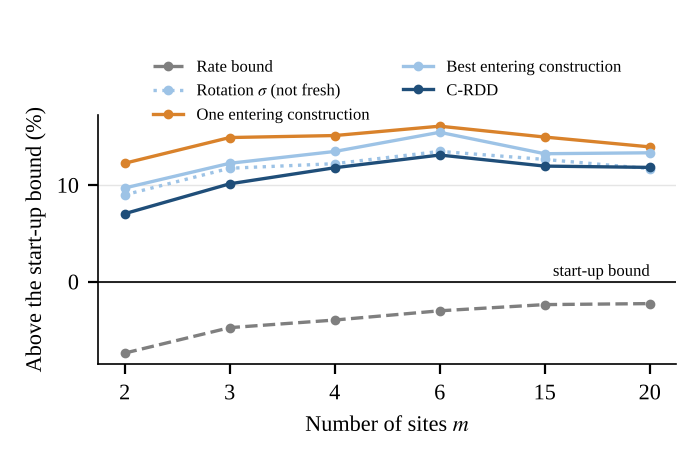
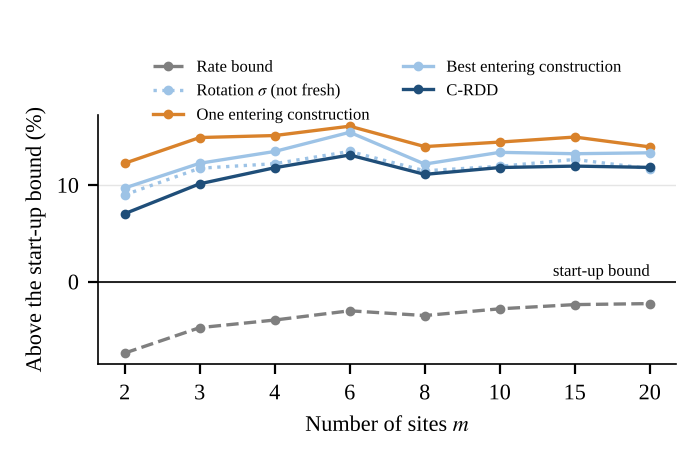
实验一节按 5d242ddd 的结果更新：本方法与消融全部 m；长期可行评价消融改用 rescue_long/long_feasible（65% 的最终解长期缺岗）；_e 按 e_fixed 取用；DD-EA m=15、20 等 q6 前按 pending
Claude-Session: https://claude.ai/code/session_012ddzzcDFFW9ewPyeeuBDkt

diff --git a/code/t20_paper_tables.py b/code/t20_paper_tables.py
@@ -41,9 +41,13 @@ for f in glob.glob(R('results/T20/opp/rhmip/*.json')):
 for d in ('opp_e', 'ours_e'):
     for f in glob.glob(R('results/T20', d, 'jobs', '*.json')):
         meth, inst, key = os.path.basename(f)[:-5].split('__'); rec = json.load(open(f))
-        if rec.get('e_triggered', 1): put(meth, inst, key, rec)
+        if rec.get('e_fixed', -1) >= 0: put(meth, inst, key, rec)   # (e) 实际触发才用新结果（11-09 审核）
+
+# q6 会用 (e) 重跑这些 (方法, m) 的一部分作业，跑完前按 pending 处理（q6 结束后删掉对应项）
+HOLD = {('d5', 15), ('d5', 20)}
 
 def complete(meth, m):
+    if (meth, m) in HOLD: return False
     ins = [i for i in lb if mof(i) == m]
     return all(len(runs[meth].get(i, {})) >= RUNS[meth] for i in ins)
 
@@ -151,10 +155,15 @@ for meth in ['ours_w0.25', 'ours', 'ours_w1', 'ours_w2']:
     rows.append(f'{NAME[meth]} & {g:.1f} & {w}/{len(ins)-w-l}/{l} \\\\')
 open(R('manuscript/tables/tab_window.tex'), 'w').write('\n'.join(rows) + '\n')
 
-# ---------- 长期可行评价消融：有限时域判可行、长期复核缺岗的比例 ----------
+# ---------- 长期可行评价消融：只看 720 h 选出的解，长期复核缺岗的比例与补救量 ----------
 se = [json.load(open(f)) for f in glob.glob(R('results/T20/ours/jobs/shorteval__*.json'))]
-n_add = sum(1 for r in se if r.get('rescue_add', 0) > 0)
-open(R('manuscript/tables/stat_shorteval.tex'), 'w').write(f'% shorteval 作业 {len(se)} 个，补救加过资源的 {n_add} 个\n\\newcommand{{\\SEn}}{{{len(se)}}}\\newcommand{{\\SEadd}}{{{n_add}}}\n')
+short = [r for r in se if r.get('long_feasible') == 0]
+add = [r['rescue_long'].get('rescue_add', 0) for r in short if r.get('rescue_long')]
+nfail = sum(r.get('status') not in ('cert', 'uncert') for r in se)
+open(R('manuscript/tables/stat_shorteval.tex'), 'w').write(
+    f'% shorteval 作业 {len(se)} 个；只看 720 h 选出的最终解长期复核缺岗 {len(short)} 个；补救加 {min(add) if add else 0}–{max(add) if add else 0} 个；补救后仍不可行 {nfail} 个\n'
+    f'\\newcommand{{\\SEn}}{{{len(se)}}}\\newcommand{{\\SEshort}}{{{len(short)}}}\\newcommand{{\\SEpct}}{{{round(100*len(short)/max(1,len(se)))}}}'
+    f'\\newcommand{{\\SEaddmin}}{{{min(add) if add else 0}}}\\newcommand{{\\SEaddmax}}{{{max(add) if add else 0}}}\\newcommand{{\\SEfail}}{{{nfail}}}\n')
 
 # ---------- 图：启动下界随 H 收敛 ----------
 import matplotlib; matplotlib.use('Agg'); import matplotlib.pyplot as plt
@@ -202,5 +211,6 @@ if ms_ok:
     [ax.spines[s].set_visible(False) for s in ('top', 'right')]
     ax.legend(fontsize=6, frameon=False, ncol=2, loc='upper center', bbox_to_anchor=(0.5, 1.28), handlelength=1.8)
     fig.tight_layout(); fig.savefig(R('manuscript/figures/fig_bracket.pdf')); fig.savefig(R('manuscript/figures/fig_bracket.png'), dpi=200)
+print('bracket series:', {k: [round(x, 1) for x in v] for k, v in series.items()})
 print('complete m (ours):', [m for m in MS if complete('ours', m)], '; Friedman instances:', nrank, '; bracket m:', ms_ok)
 print('holm', {o: holm[o] for o in OPP})

diff --git a/manuscript/sections/06_experiments.tex b/manuscript/sections/06_experiments.tex
@@ -128,7 +128,9 @@ ES is the strongest competitor; its gap is $2.5$--$3.6$ points larger.
 RDD with a hand-written rule is next, $3.3$--$7.0$ points behind, and its distance grows with $m$.
 The rules (PB, GPHH) and RH-MIP are $9.5$--$19$ points behind.
 DD-EA needs one gene per decision; its fleet search often runs out of time before the search starts, so it solves only $24\%$ of the runs at $m = 6$.
-% TODO：m = 8–20 跑完后补一段：大实例上的差距与求解率（目前已知 PB、GPHH、RH-MIP 在 m = 15、20 上常无解）。
+On the instances with $m \ge 8$, C-RDD solves every run, and its gap stays at $11$--$12\%$.
+PB, GPHH and RH-MIP are $13$--$21$ points behind on the instances they solve, and at $m = 15$ and $20$ they solve only $30$--$70\%$ of the runs.
+% TODO：q5、q6 跑完后补 ES、RK-EA、DD-EA、RDD 在 m ≥ 8 上的结果，并删掉 t20_paper_tables.py 里的 HOLD。
 Table~\ref{tab:solve} gives the solve rates. On the instances with $m \le 6$, C-RDD has the best Friedman rank (Table~\ref{tab:rank}).
 
 \begin{table*}[t]
@@ -181,15 +183,15 @@ Table~\ref{tab:solve} gives the solve rates. On the instances with $m \le 6$, C-
 \subsection{Ablation}
 \label{sec:exp:ablation}
 
+\input{tables/stat_shorteval}
+
 Table~\ref{tab:ablation} removes one part of C-RDD at a time.
 \begin{itemize}
   \item \emph{Without the relaxation rule}, the deviations act on a hand-written rule (RDD). The gap grows by $3.3$--$7.0$ points.
   \item \emph{Without the entering construction}, the rotation rule runs from the fresh start and the search must fix the start-up alone. The gap grows by $2.3$--$3.2$ points.
-  \item \emph{Without the search}, the best entering construction is returned. The gap grows by $1.3$--$2.7$ points. The construction alone is better than the search without the construction.
-  \item \emph{With a short fitness horizon} of $720$ hours, the search sees too little of the start-up and stops at larger fleets. The gap grows by $1.8$--$1.9$ points.
+  \item \emph{Without the search}, the best entering construction is returned. The gap grows by $1.1$--$2.7$ points. The construction alone is better than the search without the construction.
+  \item \emph{Without the long-run evaluation}, the fitness and the fleet search look only at the first $720$ hours, and the final schedule is checked afterwards. Of the \SEn{} final schedules, \SEshort{} (\SEpct\%) run short later. Adding \SEaddmin--\SEaddmax{} resources repairs all but \SEfail{} of them, and the repaired fleets are $1.1$--$1.9$ points larger than those of C-RDD.
 \end{itemize}
-% TODO：短适应度时域的最终解是否都长期可行（stat_shorteval：补救加资源 0/120）——请服务器确认这一组仍在搜索中做无限时域检查，再决定这一条怎么写。
-% TODO：m = 8、10 跑完后补"去掉接入构造""去掉搜索"两行。
 
 \begin{table}[t]
   \centering

diff --git a/manuscript/tables/tab_compare.tex b/manuscript/tables/tab_compare.tex
@@ -2,8 +2,8 @@
 3 & 10.1 & +10.0 (20/0/0) & +14.2 (20/0/0) & +2.6 (16/2/2) & +7.0 (19/1/0) & +38.2 (18/0/0) & +3.3 (18/2/0) & +9.5 (20/0/0) \\
 4 & 11.8 & +12.0 (20/0/0) & +18.9 (20/0/0) & +2.5 (16/1/3) & +7.6 (20/0/0) & +39.8 (12/0/0) & +4.7 (20/0/0) & +10.9 (20/0/0) \\
 6 & 13.1 & +13.6 (19/0/0) & +17.9 (20/0/0) & +3.0 (17/0/3) & +9.3 (20/0/0) & +43.1 (7/0/0) & +7.0 (20/0/0) & +13.5 (20/0/0) \\
-8 & \textit{pending} & \textit{pending} & \textit{pending} & \textit{pending} & \textit{pending} & \textit{pending} & \textit{pending} & \textit{pending} \\
-10 & \textit{pending} & \textit{pending} & \textit{pending} & \textit{pending} & \textit{pending} & \textit{pending} & \textit{pending} & \textit{pending} \\
+8 & 11.1 & +16.5 (18/0/0) & +19.5 (20/0/0) & \textit{pending} & \textit{pending} & \textit{pending} & \textit{pending} & +16.6 (20/0/0) \\
+10 & 11.8 & +13.1 (14/0/0) & +17.6 (19/0/0) & \textit{pending} & \textit{pending} & \textit{pending} & \textit{pending} & +17.2 (18/0/0) \\
 15 & 12.0 & +15.3 (6/0/0) & +19.4 (17/0/0) & \textit{pending} & \textit{pending} & \textit{pending} & \textit{pending} & +20.3 (13/0/0) \\
 20 & 11.8 & +16.8 (10/0/0) & +19.3 (18/0/0) & \textit{pending} & \textit{pending} & \textit{pending} & \textit{pending} & +21.2 (14/0/0) \\
 \midrule

diff --git a/manuscript/tables/tab_ablation.tex b/manuscript/tables/tab_ablation.tex
@@ -5,17 +5,19 @@ w/o relaxation rule & 6 & +7.0 (20/0/0) \\
 \midrule
 w/o entering & 4 & +2.3 (17/3/0) \\
 w/o entering & 6 & +3.2 (20/0/0) \\
-w/o entering & 8 & \textit{pending} \\
-w/o entering & 10 & \textit{pending} \\
+w/o entering & 8 & +2.8 (20/0/0) \\
+w/o entering & 10 & +2.6 (19/0/1) \\
 \midrule
 w/o search & 2 & +2.7 (13/7/0) \\
 w/o search & 3 & +2.1 (14/6/0) \\
 w/o search & 4 & +1.7 (13/7/0) \\
 w/o search & 6 & +2.4 (20/0/0) \\
-w/o search & 8 & \textit{pending} \\
-w/o search & 10 & \textit{pending} \\
+w/o search & 8 & +1.1 (15/5/0) \\
+w/o search & 10 & +1.6 (20/0/0) \\
 w/o search & 15 & +1.3 (19/1/0) \\
 w/o search & 20 & +1.5 (20/0/0) \\
 \midrule
 w/o long-run eval. & 4 & +1.8 (15/5/0) \\
 w/o long-run eval. & 6 & +1.9 (17/0/3) \\
+w/o long-run eval. & 8 & +1.1 (15/5/0) \\
+w/o long-run eval. & 10 & +1.7 (19/0/0) \\

diff --git a/manuscript/tables/stat_shorteval.tex b/manuscript/tables/stat_shorteval.tex
@@ -1,2 +1,2 @@
-% shorteval 作业 120 个，补救加过资源的 0 个
-\newcommand{\SEn}{120}\newcommand{\SEadd}{0}
+% shorteval 作业 240 个；只看 720 h 选出的最终解长期复核缺岗 157 个；补救加 1–10 个；补救后仍不可行 8 个
+\newcommand{\SEn}{240}\newcommand{\SEshort}{157}\newcommand{\SEpct}{65}\newcommand{\SEaddmin}{1}\newcommand{\SEaddmax}{10}\newcommand{\SEfail}{8}

diff --git a/manuscript/tables/tab_solve.tex b/manuscript/tables/tab_solve.tex
@@ -1,4 +1,4 @@
-C-RDD & 100 & 100 & 100 & 100 & $\cdot$ & $\cdot$ & 100 & 100 \\
+C-RDD & 100 & 100 & 100 & 100 & 100 & 100 & 100 & 100 \\
 PB & 100 & 100 & 100 & 95 & 90 & 70 & 30 & 50 \\
 GPHH & 100 & 99 & 93 & 92 & 81 & 68 & 36 & 35 \\
 ES & 100 & 100 & 100 & 100 & $\cdot$ & $\cdot$ & $\cdot$ & $\cdot$ \\
